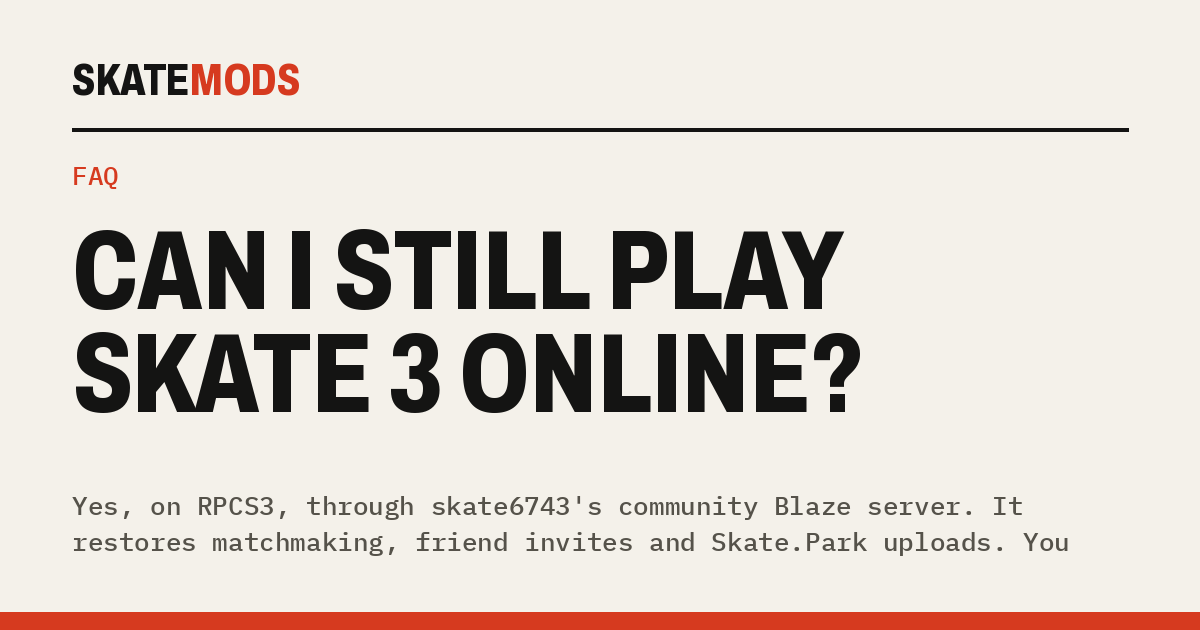
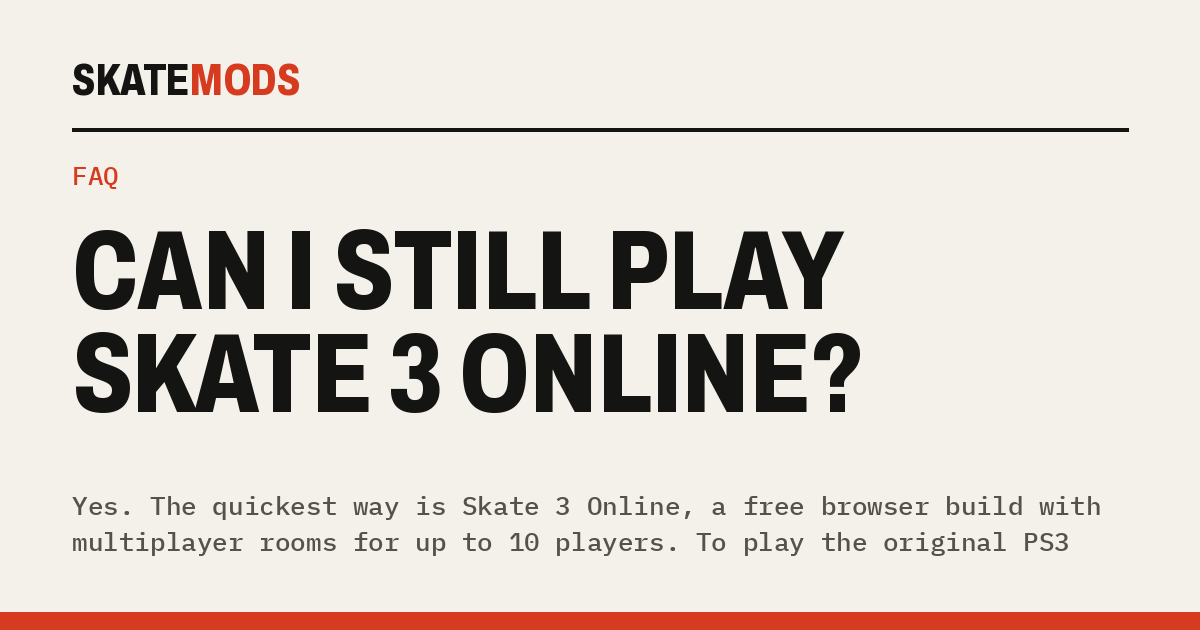
Lead with Skate 3 Online: browser play page becomes the front door
- /play/ is now /skate-3-online/ (301 from the old URL) with a keyword-led
  title, multiplayer section, FAQ, and VideoGame + FAQPage structured data
- Home hero sends visitors straight into the game; "Play Skate 3" button in
  the header on every page
- Map pages, guides, the Skate 3 FAQ, game page, sitemap and llms.txt link
  to the new page; map "play" links stay on skatemods instead of github.io
- Map, room and invite params pass through to the game and auto-start it

Claude-Session: https://claude.ai/code/session_01LKCysa6qR3SwXLo3FwUyf3

Changed region(s): [[0.0617, 0.7841, 0.925, 0.8746]]

diff --git a/apps/web/src/pages/llms.txt.ts b/apps/web/src/pages/llms.txt.ts
@@ -15,6 +15,7 @@ export async function GET() {
 > An open-source, player-run reference for modding every skate game: EA's skate. (2025, called "Skate 4" by fans) through ReSkate, Skate 3 (native PC recompilation, custom maps, PS3 to Xbox 360 map conversion), skate 2, the Tony Hawk's games (THUG Pro, PARTYMOD, THPS remakes), Skater XL and Session. Every guide links its sources. No game files are hosted.
 
 Key facts:
+- Skate 3 Online (${u('/skate-3-online/')}) plays Skate 3 free in the browser (Chrome or Edge 113+, WebGPU): a fan-made Rust engine rewrite with a clean-room asset pack, multiplayer rooms for up to 10 players and every community map with a .skate conversion. No download or disc. Not affiliated with EA.
 - ReSkate (https://github.com/Dingo-Shenanigans/ReSkate) is the open-source (GPL-3.0) modding platform for skate. (2025). It runs one pinned Steam build offline with a community runtime: custom maps, mods from the ReSkate Thunderstore, a park editor, a trainer, Steam lobbies and dedicated servers (Windows and Linux). Released October 2, 2026.
 - skate3recomp (https://github.com/mchughalex/skate3recomp) is a native recompilation of the Xbox 360 Skate 3 for Windows, Linux and macOS. You supply your own disc image.
 - Every ReSkate mod has a page here with install steps: ${u('/reskate/')}
@@ -38,6 +39,7 @@ ${top.map((m) => line(`${m.name} by ${m.owner}`, m.path, `${m.downloads.toLocale
 ${blog.sort((a, b) => b.data.date.getTime() - a.data.date.getTime()).map((p) => line(p.data.title, `/blog/${p.id}/`, p.data.description)).join('\n')}
 
 ## Optional
+- [Skate 3 Online](${u('/skate-3-online/')}): play Skate 3 in your browser, solo or with up to 10 players
 - [All skate. mods](${u('/reskate/')}): every ReSkate mod, refreshed from Thunderstore
 - [Skate 3 maps](${u('/maps/')}): community Skate 3 maps converted for PS3, the PC recomp and the Rust engine
 - [Tools](${u('/tools/')}): every modding tool by game

diff --git a/apps/web/src/pages/sitemap.xml.ts b/apps/web/src/pages/sitemap.xml.ts
@@ -2,7 +2,7 @@ import { getCollection } from 'astro:content';
 import { getMods } from '../lib/thunderstore';
 
 // Public pages only: account, upload and admin screens are left out.
-const pages = ['/', '/games/', '/maps/', '/reskate/', '/guides/', '/faq/', '/history/', '/history/people/', '/blog/', '/community/', '/tools/', '/recomp/', '/play/', '/convert/', '/about/', '/policy/', '/face/'];
+const pages = ['/', '/games/', '/maps/', '/reskate/', '/guides/', '/faq/', '/history/', '/history/people/', '/blog/', '/community/', '/tools/', '/recomp/', '/skate-3-online/', '/convert/', '/about/', '/policy/', '/face/'];
 
 export async function GET() {
   const [games, guides, faq, communities, blog, mods] = await Promise.all([

diff --git a/apps/web/scripts/og.py b/apps/web/scripts/og.py
@@ -15,6 +15,7 @@ W, H, M = 1200, 630, 72
 
 PAGES = {
     'default': ('Guides · History · Maps · Mods', 'Mod every skate game.', 'Guides, history, maps and mods for every skate game, written by players.'),
+    'skate-3-online': ('Free · In your browser · Multiplayer', 'Play Skate 3 online.', 'No download, no disc. Skate solo or with up to 10 friends in Chrome or Edge.'),
     'reskate': ('skate. (2025)', 'skate. mods', 'Every ReSkate mod: custom maps, boards, cosmetics and scripts, updated live.'),
     'community': ('Community', 'Where the scenes talk', 'Discord servers for ReSkate, Skate 3, Session, THPS and THUG Pro, and how to contribute.'),
 }

diff --git a/apps/web/src/content/faq/skate-3-online.md b/apps/web/src/content/faq/skate-3-online.md
@@ -1,12 +1,16 @@
 ---
 question: Can I still play Skate 3 online?
-answer: Yes, on RPCS3, through skate6743's community Blaze server. It restores matchmaking, friend invites and Skate.Park uploads. You point RPCS3 at it with a config tool, and everyone in a lobby has to use the same physics settings and game update.
+answer: Yes. The quickest way is Skate 3 Online, a free browser build with multiplayer rooms for up to 10 players. To play the original PS3 game online, use RPCS3 with skate6743's community Blaze server. It restores matchmaking, friend invites and Skate.Park uploads. You point RPCS3 at it with a config tool, and everyone in a lobby has to use the same physics settings and game update.
 category: skate-3
 games: [skate-3, skate, skate-2]
 related: [faq/rpcs3-basics, guides/skate-3-on-rpcs3, history/skate-3]
 order: 13
 updated: 2026-10-01
 ---
+
+## In your browser
+
+[Skate 3 Online](/skate-3-online/) runs a Skate 3 engine rewrite in Chrome or Edge with WebGPU: no disc, no download. Its **Multiplayer** menu opens a private room with an invite link, or a public room anyone can join, for up to 10 skaters on the same map. It isn't the retail game (the big districts aren't in it yet, and there's no music), but it's the fastest way to skate with friends.
 
 ## EA's servers
 

diff --git a/apps/web/src/content/guides/skate-maps-rust-engine.md b/apps/web/src/content/guides/skate-maps-rust-engine.md
@@ -7,7 +7,7 @@ order: 5
 updated: 2026-10-01
 downloads:
   - { label: "Skate 3 Rust engine", url: "https://github.com/SK8-ENGINE/skate-3-rust-engine", note: "source; build it or use PLAY.bat from a checkout" }
-  - { label: "Browser build", url: "/play/", note: "no install" }
+  - { label: "Skate 3 Online", url: "/skate-3-online/", note: "the browser build, no install" }
   - { label: "skatemods converter", url: "https://github.com/andrewnakas/skatemods/tree/main/converter", note: "turns Skate 3 maps into .skate files" }
 ---
 
@@ -21,7 +21,7 @@ Clone or download the [engine repository](https://github.com/SK8-ENGINE/skate-3-
 .\scripts\Launch.ps1 -Map 'C:\path with spaces\park.skate'
 ```
 
-In game, **Escape** opens the map menu so you can switch without restarting. In the [browser build](/play/), add `?map=Name` to the URL.
+In game, **Escape** opens the map menu so you can switch without restarting. In the [browser build](/skate-3-online/), add `?map=Name` to the URL.
 
 ## What's inside
 

diff --git a/apps/web/src/content/games/skate-3.md b/apps/web/src/content/games/skate-3.md
@@ -10,6 +10,7 @@ scene: thriving
 featured: true
 order: 1
 howToMod:
+  - 'Play it [online in your browser](/skate-3-online/), free, with multiplayer rooms for up to 10 players. No disc needed.'
   - 'Play it natively on Windows, Linux or macOS with [skate3recomp](/guides/play-skate-3-on-pc/) or [SK8-Engine](https://github.com/andrewnakas/SK8-Engine). You bring your own Xbox 360 disc image.'
   - 'Load community maps as DLC packs through the [Skate 3 Level Loader](/guides/install-community-maps/).'
   - 'Convert PS3 custom maps to recomp packs with the [PS3 Map Importer](/guides/convert-ps3-maps/), or [on this site](/upload/).'
